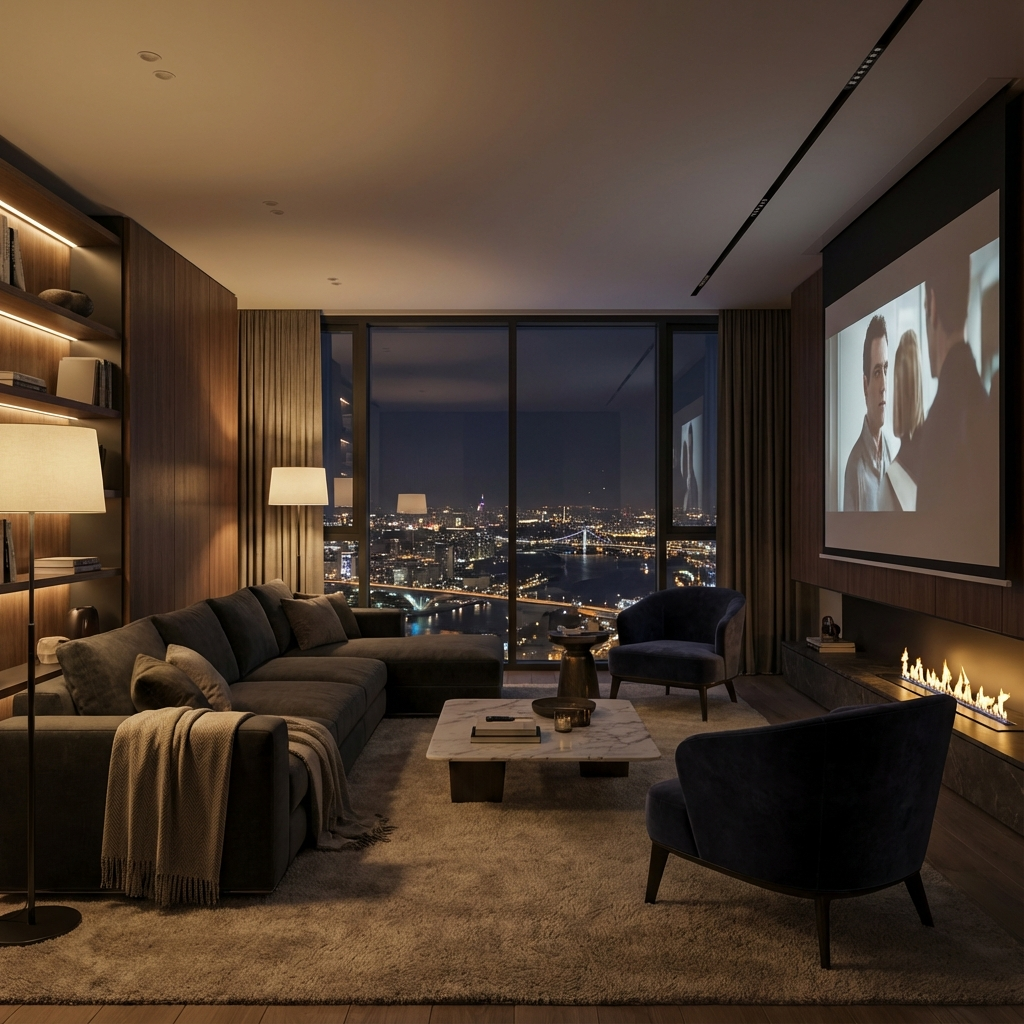
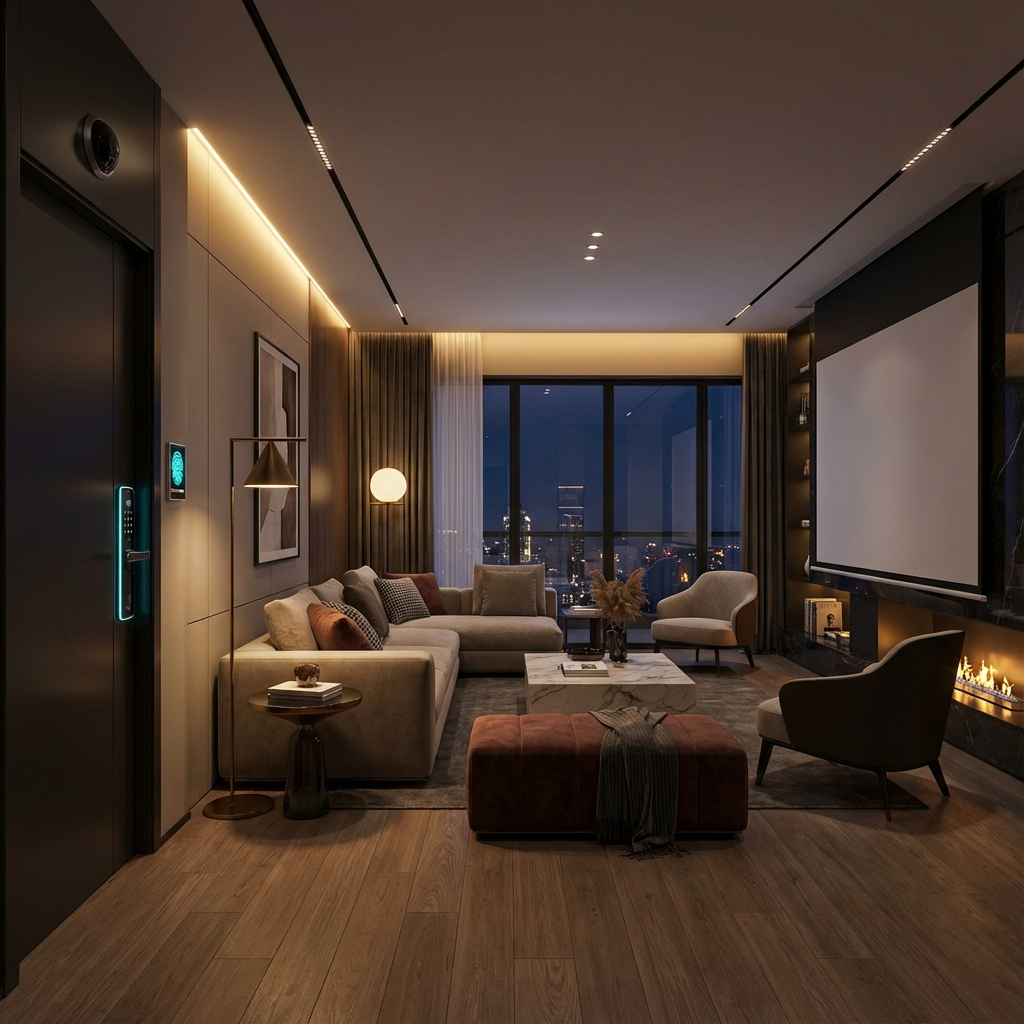
Feature: Akıllı kapı kontrolü eklendi
- Living room görselini kapı ile güncellendi
- Yaşam senaryolarına 'Kapı Aç' butonu eklendi
- Parmak izi ve şifre ile kapı açma özelliği simülasyonu
- Kapı 3 saniye sonra otomatik kapanıyor
- Kapı ikonu açık/kapalı durumda değişiyor
- Yaşam senaryoları başlık boşluğu azaltıldı (mb-4 -> mb-3)

diff --git a/index.html b/index.html
@@ -251,7 +251,7 @@
 
                     <div class="lg:col-span-4 flex flex-col gap-4 justify-center">
                         <div class="bg-ek-dark/50 p-5 rounded-xl border border-white/5">
-                            <h4 class="text-gray-400 text-xs mb-4 uppercase tracking-wider font-bold">Yaşam Senaryoları
+                            <h4 class="text-gray-400 text-xs mb-3 uppercase tracking-wider font-bold">Yaşam Senaryoları
                             </h4>
                             <div class="grid grid-cols-2 gap-3">
                                 <button
@@ -270,6 +270,15 @@
                                         class="material-symbols-outlined text-3xl text-purple-400 group-hover:scale-110 transition"
                                         id="icon-cinema">movie</span>
                                     <span class="text-sm font-medium text-gray-300 group-hover:text-white">Sinema</span>
+                                </button>
+                                <button
+                                    class="p-4 rounded-xl bg-white/5 border border-white/10 hover:bg-white/10 transition flex flex-col items-center gap-2 group"
+                                    id="btn-door" onclick="toggleDoor()">
+                                    <span
+                                        class="material-symbols-outlined text-3xl text-green-400 group-hover:scale-110 transition"
+                                        id="icon-door">door_front</span>
+                                    <span class="text-sm font-medium text-gray-300 group-hover:text-white">Kapı
+                                        Aç</span>
                                 </button>
                             </div>
                         </div>

diff --git a/js/main.js b/js/main.js
@@ -4,7 +4,7 @@ let currentSlide = 0;
 const slides = document.querySelectorAll('.slide');
 const indicators = document.querySelectorAll('.indicator');
 const totalSlides = slides.length;
-let lightState = false, cinemaState = false, tempValue = 21.5, securityState = false;
+let lightState = false, cinemaState = false, tempValue = 21.5, securityState = false, doorState = false;
 let synth, isAudioInit = false;
 
 // Audio Initialization
@@ -97,6 +97,38 @@ function toggleSecurity() {
         status.classList.remove('text-green-500');
         status.classList.add('text-ek-primary');
         playSound('click');
+    }
+}
+
+function toggleDoor() {
+    initAudio();
+    doorState = !doorState;
+    updateDoorUI(doorState);
+    if (doorState) {
+        playSound('success');
+        // 3 saniye sonra otomatik kapan
+        setTimeout(() => {
+            doorState = false;
+            updateDoorUI(false);
+        }, 3000);
+    } else {
+        playSound('click');
+    }
+}
+
+function updateDoorUI(state) {
+    const icon = document.getElementById('icon-door');
+    const btn = document.getElementById('btn-door');
+    if (state) {
+        icon.textContent = 'door_open';
+        icon.classList.remove('text-green-400');
+        icon.classList.add('text-green-300');
+        btn.classList.add('bg-green-500/20', 'border-green-500/50');
+    } else {
+        icon.textContent = 'door_front';
+        icon.classList.remove('text-green-300');
+        icon.classList.add('text-green-400');
+        btn.classList.remove('bg-green-500/20', 'border-green-500/50');
     }
 }
 
